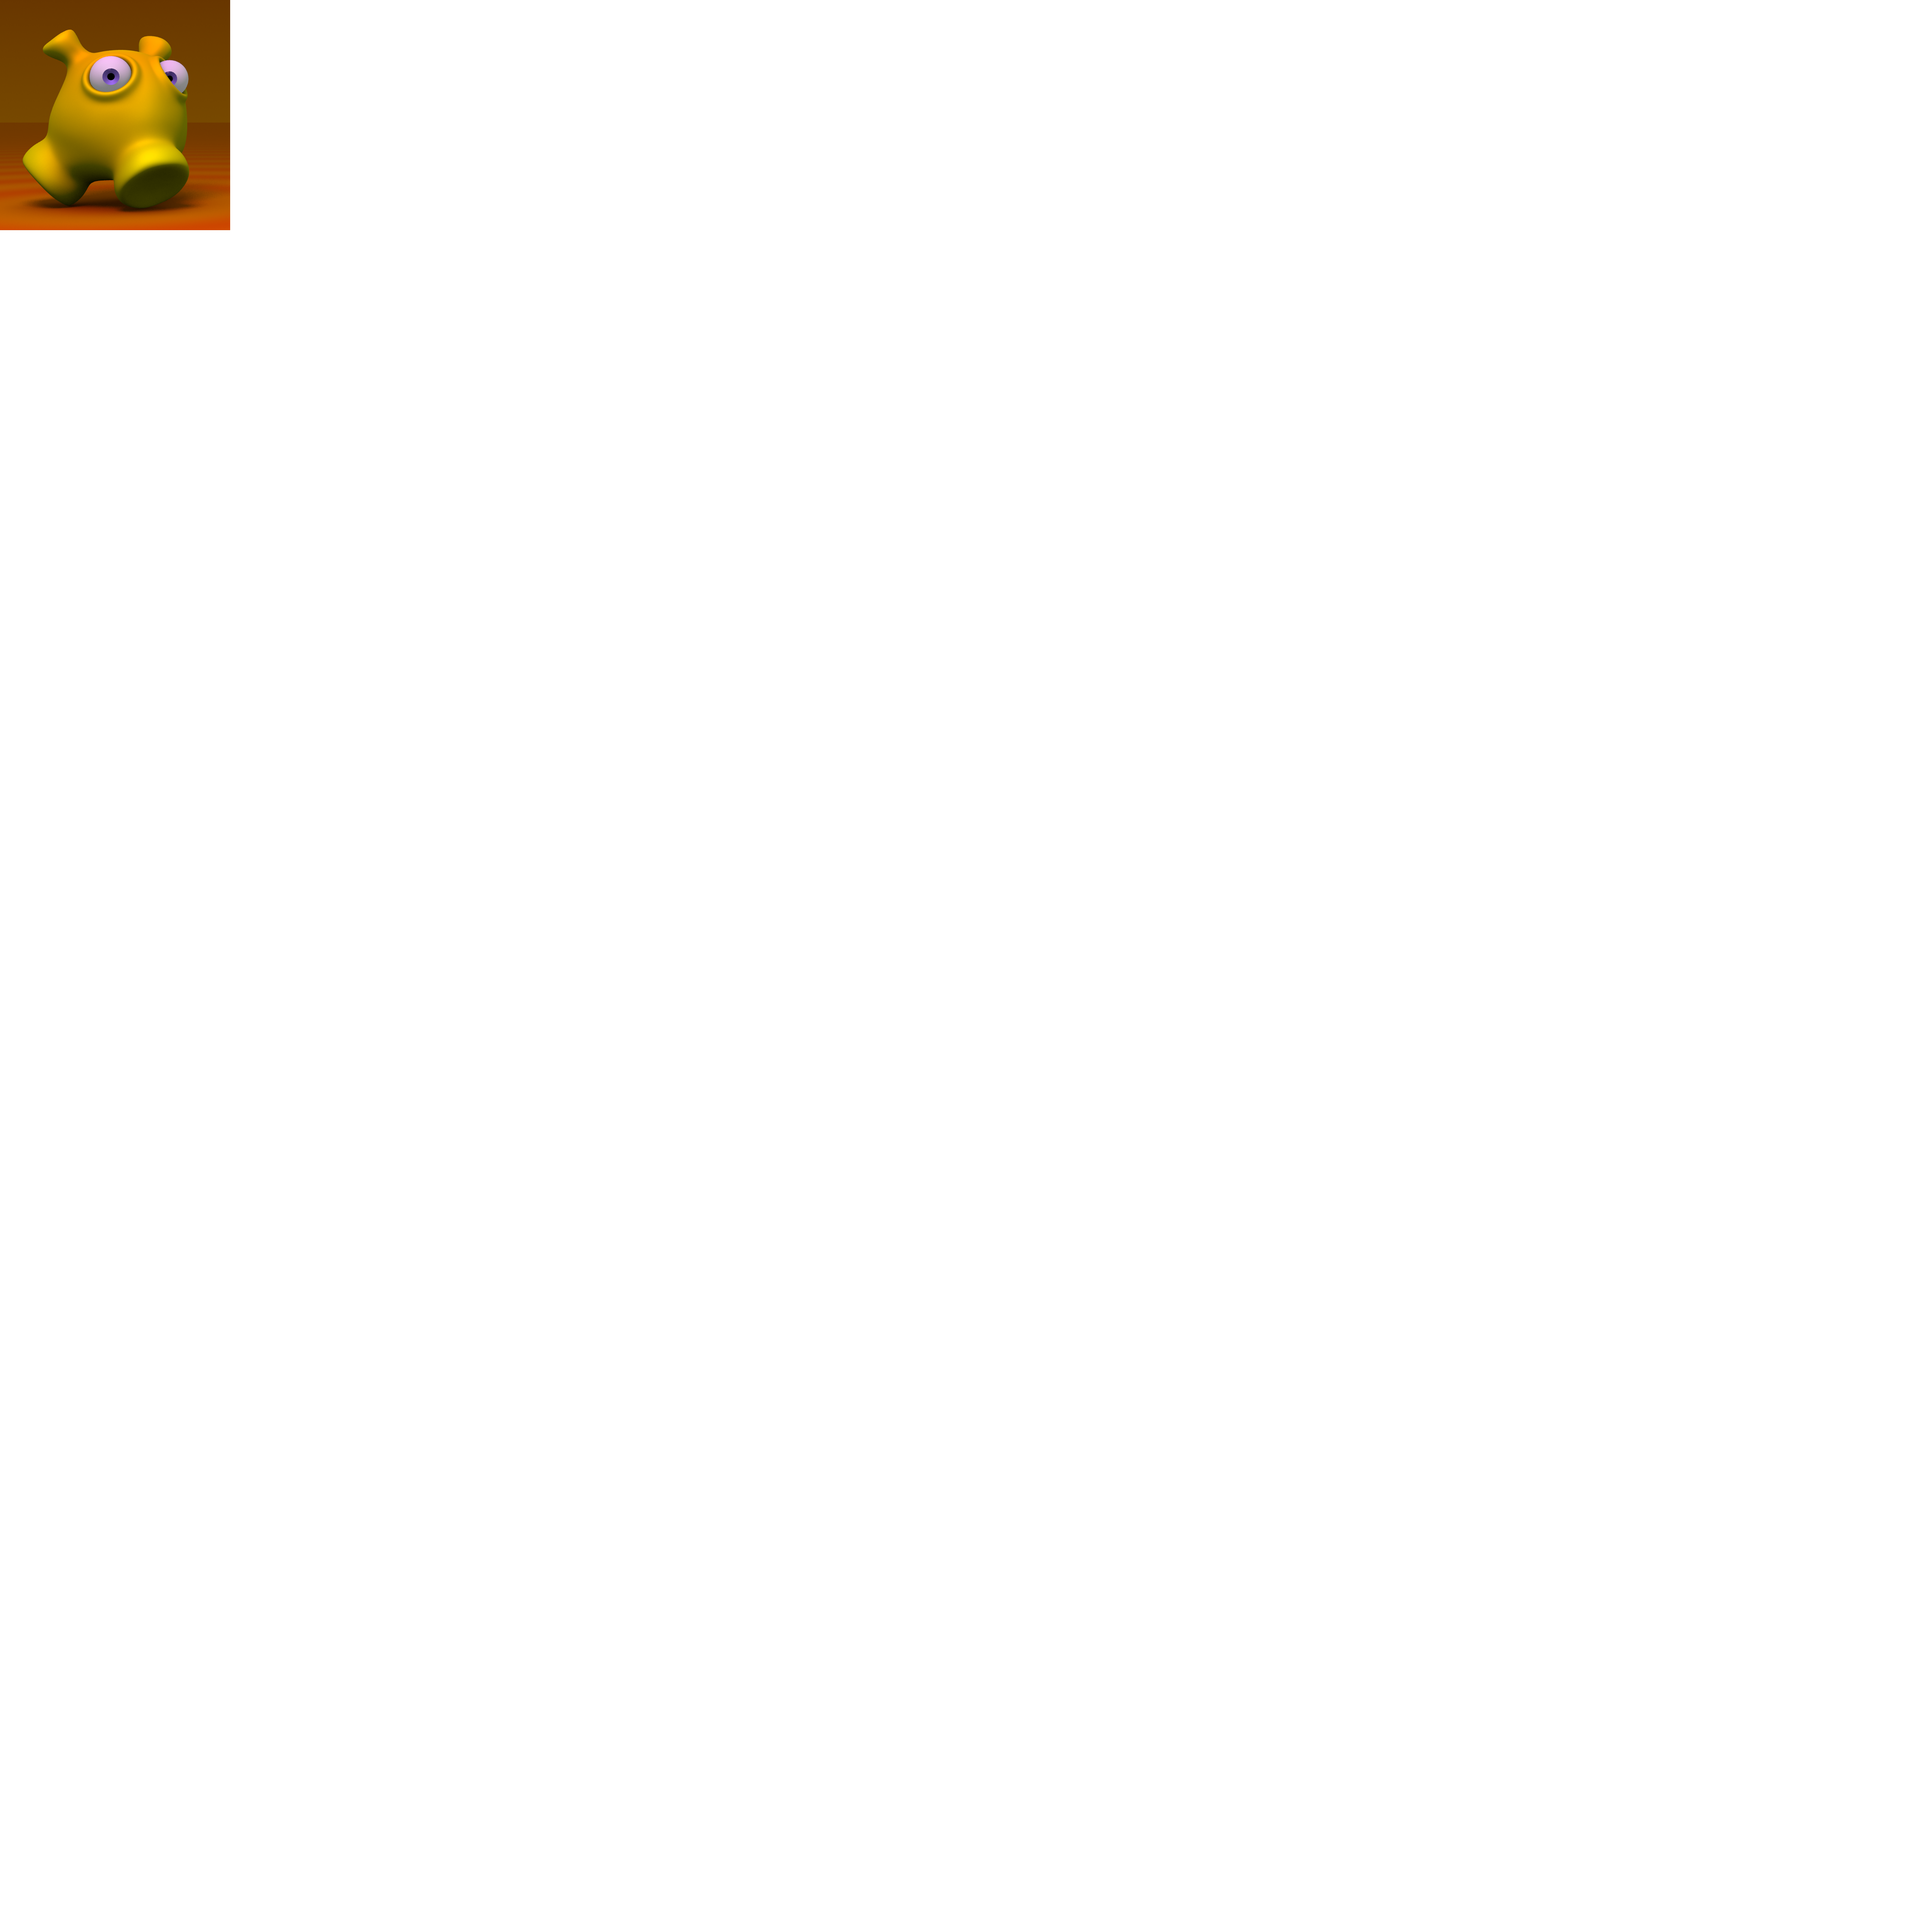
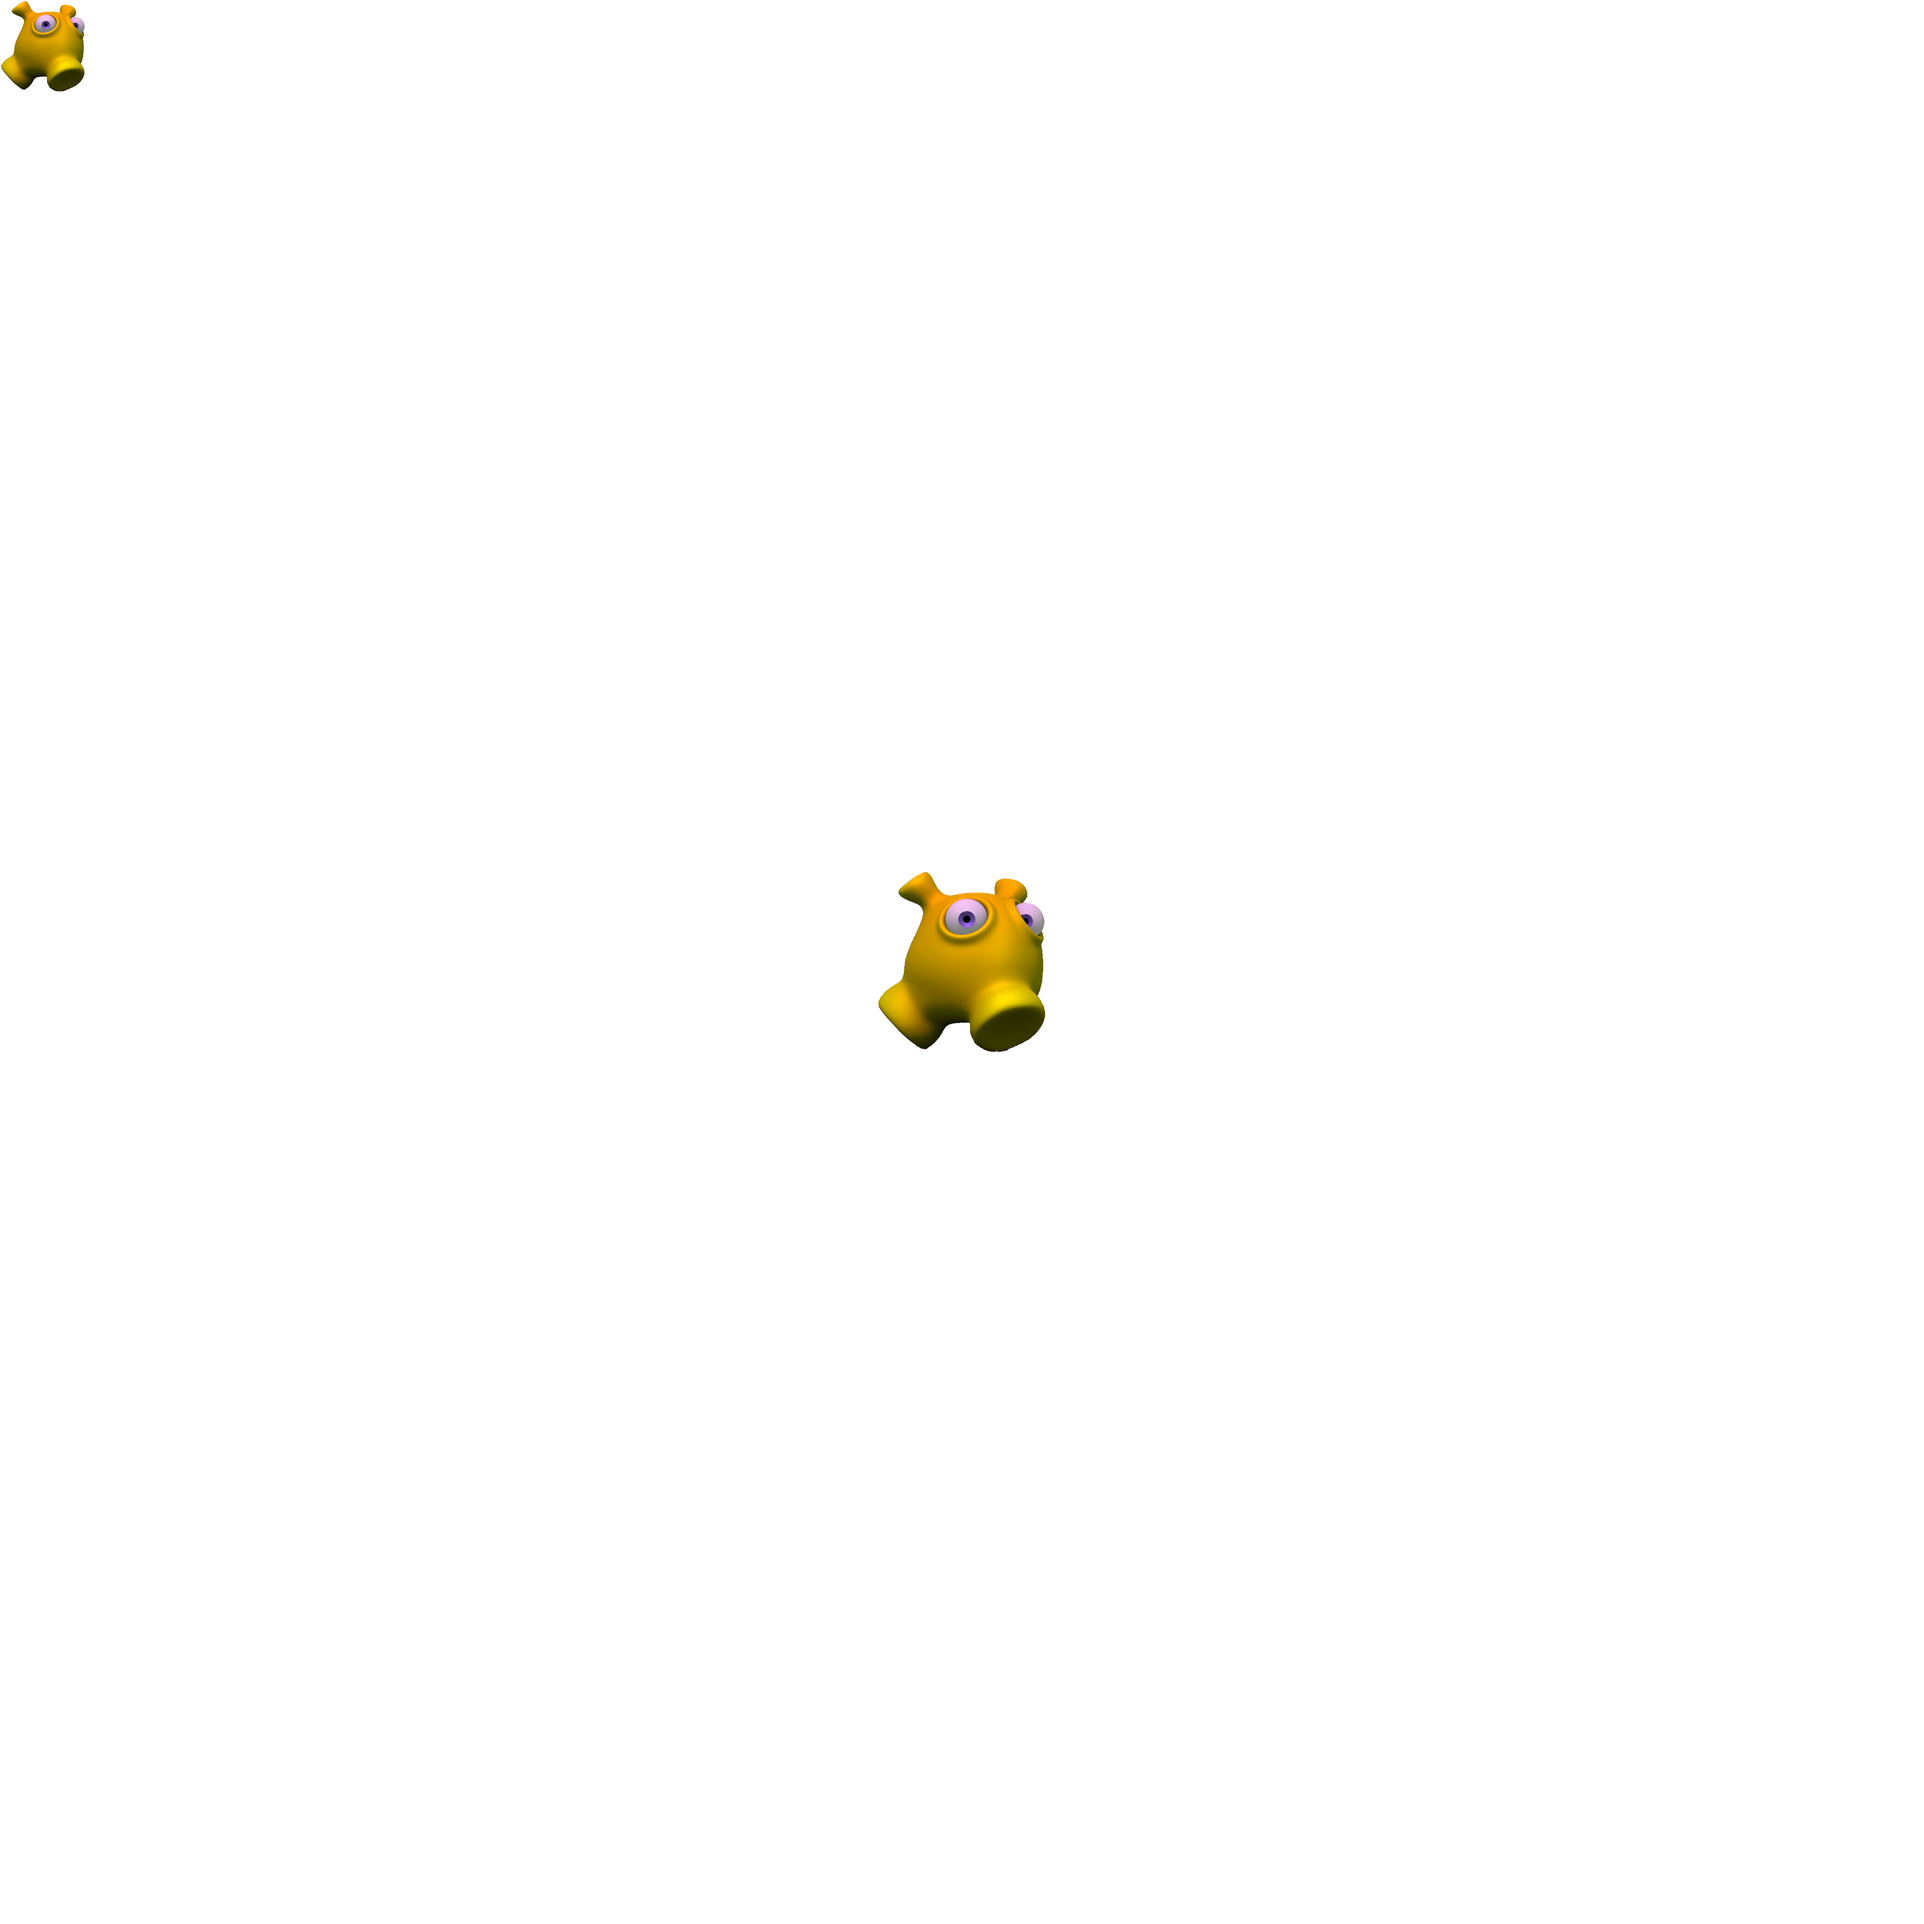
texture

Changed region(s): [[0.0, 0.0, 0.125, 0.125], [0.4375, 0.4375, 0.5625, 0.5625]]

diff --git a/kakao.app/js/little/world.js b/kakao.app/js/little/world.js
@@ -21,22 +21,24 @@ world = (function ()
         this["togglePause"] = this["togglePause"].bind(this)
         this["clearCanvas"] = this["clearCanvas"].bind(this)
         this["resize"] = this["resize"].bind(this)
+        this["loaded"] = this["loaded"].bind(this)
         this["start"] = this["start"].bind(this)
         this["draw"] = this["draw"].bind(this)
         this["setNum"] = this["setNum"].bind(this)
         this["setSide"] = this["setSide"].bind(this)
         this.main = $('main')
         this.pause = false
+        this.textureInfos = []
         this.canvas = elem('canvas',{class:'canvas'})
         this.main.appendChild(this.canvas)
         this.initWebGL()
         this.resize()
         this.tweaky = new tweaky(this.main)
-        this.setSide(100)
+        this.setSide(10)
         this.camPosX = 0
         this.camPosY = 0
-        this.camScale = 0.02
-        this.tweaky.init({side:{min:1,max:100,step:1,value:this.side,cb:this.setSide},camPosX:{min:-10,max:10,step:0.001,value:this.camPosX,cb:(function (camPosX)
+        this.camScale = 0.2
+        this.tweaky.init({side:{min:10,max:200,step:1,value:this.side,cb:this.setSide},camPosX:{min:-10,max:10,step:0.001,value:this.camPosX,cb:(function (camPosX)
         {
             this.camPosX = camPosX
         
@@ -46,7 +48,7 @@ world = (function ()
             this.camPosY = camPosY
         
             return this.draw()
-        }).bind(this)},camScale:{min:0.02,max:1,step:0.00001,value:this.camScale,cb:(function (camScale)
+        }).bind(this)},camScale:{min:0.02,max:0.2,step:0.00001,value:this.camScale,cb:(function (camScale)
         {
             this.camScale = camScale
         
@@ -61,26 +63,39 @@ world = (function ()
         var fragmentShader, fsSource, loadShader, r, vertexShader, vsSource
 
         this.gl = this.canvas.getContext('webgl2')
-        vsSource = `attribute vec2 aQuadVertex;
-attribute vec2 aQuadScale;
-attribute vec2 aQuadPosition;
-attribute vec4 aQuadColor;
+        vsSource = `#version 300 es
+precision mediump float;
+in vec2  aQuadVertex;
+in vec2  aQuadPosition;
+in vec2  aQuadScale;
+in vec4  aQuadColor;
+in vec4  aQuadUV;
+in float aQuadRot;
 uniform vec2 uCamPos;
 uniform vec2 uCamScale;
-varying vec4 vColor;
+out vec4 vColor;
+out vec2 vUV;
 
 void main(void) {
-    vec2 pos = uCamScale * (aQuadVertex * aQuadScale + aQuadPosition) - uCamPos;
+    vec2 vertex = aQuadVertex * aQuadScale;
+    //vec2 rotated = (aQuadRot == 0.0) ? vertex*cos(aQuadRot)-vec2(-vertex.y,vertex.x)*sin(aQuadRot) : vertex;
+    vec2 rotated = vertex*cos(aQuadRot)-vec2(-vertex.y,vertex.x)*sin(aQuadRot);
+    vec2 pos = uCamScale * (rotated + aQuadPosition) - uCamPos;
     gl_Position = vec4(pos.x, pos.y, 0, 1);
     vColor = aQuadColor;
+    vUV = mix(aQuadUV.xw,aQuadUV.zy,aQuadVertex+vec2(0.5, 0.5));
 }
 `
-        fsSource = `
+        fsSource = `#version 300 es
 precision mediump float;
-varying vec4 vColor;
+in vec4 vColor;
+in vec2 vUV;
+uniform sampler2D uSampler;
+out vec4 fragColor;
 
 void main(void) {
-    gl_FragColor = vColor;
+    //fragColor = vColor;
+    fragColor = texture(uSampler,vUV)*vColor;
 }`
         loadShader = (function (type, source)
         {
@@ -118,11 +133,12 @@ void main(void) {
         this.gl.bindBuffer(this.gl.ARRAY_BUFFER,this.quadBuffer)
         this.gl.vertexAttribPointer(this.quadVertexLoc,2,this.gl.FLOAT,false,0,0)
         this.gl.enableVertexAttribArray(this.quadVertexLoc)
-        this.poscalBuffer = this.gl.createBuffer()
-        this.colorBuffer = this.gl.createBuffer()
+        this.dataBuffer = this.gl.createBuffer()
         this.positionLoc = this.gl.getAttribLocation(this.shaderProgram,'aQuadPosition')
         this.scaleLoc = this.gl.getAttribLocation(this.shaderProgram,'aQuadScale')
-        return this.colorLoc = this.gl.getAttribLocation(this.shaderProgram,'aQuadColor')
+        this.colorLoc = this.gl.getAttribLocation(this.shaderProgram,'aQuadColor')
+        this.uvLoc = this.gl.getAttribLocation(this.shaderProgram,'aQuadUV')
+        return this.rotLoc = this.gl.getAttribLocation(this.shaderProgram,'aQuadRot')
     }
 
     world.prototype["setSide"] = function (side)
@@ -136,13 +152,12 @@ void main(void) {
     {
         this.num = num
     
-        this.poscal = new Float32Array(this.num * 4)
-        return this.colors = new Float32Array(this.num * 4)
+        return this.data = new Float32Array(this.num * 13)
     }
 
     world.prototype["draw"] = function ()
     {
-        var a, aspect, b, c, camPos, camScale, g, i, p, px, py, r, sq, sq2, sx, sy
+        var a, aspect, attrib, b, camPos, camScale, cv, g, i, offset, p, px, py, r, sq, sq2, stride, sx, sy, u0, u1, v0, v1
 
         sq = Math.ceil(Math.sqrt(this.num))
         sq2 = sq / 2
@@ -152,35 +167,52 @@ void main(void) {
             py = Math.floor(i / sq)
             sx = 1
             sy = 1
-            p = i * 4
-            this.poscal[p++] = px
-            this.poscal[p++] = py
-            this.poscal[p++] = (1.2 + Math.sin(this.tickInfo.time / 1000)) * 0.5
-            this.poscal[p++] = (1.2 + Math.cos(this.tickInfo.time / 1000)) * 0.5
-            r = i / sq / sq + randRange(-0.05,0.05)
-            b = (i % sq) / sq + randRange(-0.05,0.05)
-            g = (r + b) / 2 + randRange(-0.05,0.05)
+            p = i * 13
+            this.data[p++] = px
+            this.data[p++] = py
+            this.data[p++] = sx
+            this.data[p++] = sy
+            cv = 0.05
+            r = 1
+            b = 1
+            g = 1
             a = 1
-            c = i * 4
-            this.colors[c++] = r
-            this.colors[c++] = g
-            this.colors[c++] = b
-            this.colors[c++] = a
+            this.data[p++] = r
+            this.data[p++] = g
+            this.data[p++] = b
+            this.data[p++] = a
+            u0 = 0
+            v0 = 0
+            u1 = 196 / 4096
+            v1 = 196 / 4096
+            this.data[p++] = u0
+            this.data[p++] = v0
+            this.data[p++] = u1
+            this.data[p++] = v1
+            this.data[p++] = (px - py) * this.tickInfo.time / 10000
         }
         this.gl.useProgram(this.shaderProgram)
-        this.gl.bindBuffer(this.gl.ARRAY_BUFFER,this.poscalBuffer)
-        this.gl.bufferData(this.gl.ARRAY_BUFFER,this.poscal,this.gl.STATIC_DRAW)
-        this.gl.vertexAttribPointer(this.positionLoc,2,this.gl.FLOAT,false,16,0)
-        this.gl.vertexAttribDivisor(this.positionLoc,1)
-        this.gl.vertexAttribPointer(this.scaleLoc,2,this.gl.FLOAT,false,16,8)
-        this.gl.vertexAttribDivisor(this.scaleLoc,1)
-        this.gl.enableVertexAttribArray(this.positionLoc)
-        this.gl.enableVertexAttribArray(this.scaleLoc)
-        this.gl.bindBuffer(this.gl.ARRAY_BUFFER,this.colorBuffer)
-        this.gl.bufferData(this.gl.ARRAY_BUFFER,this.colors,this.gl.STATIC_DRAW)
-        this.gl.vertexAttribPointer(this.colorLoc,4,this.gl.FLOAT,false,0,0)
-        this.gl.vertexAttribDivisor(this.colorLoc,1)
-        this.gl.enableVertexAttribArray(this.colorLoc)
+        if ((this.textureInfos[0] != null ? this.textureInfos[0].glTexture : undefined))
+        {
+            this.gl.activeTexture(this.gl.TEXTURE0)
+            this.gl.bindTexture(this.gl.TEXTURE_2D,this.textureInfos[0].glTexture)
+        }
+        this.gl.bindBuffer(this.gl.ARRAY_BUFFER,this.dataBuffer)
+        this.gl.bufferData(this.gl.ARRAY_BUFFER,this.data,this.gl.STATIC_DRAW)
+        stride = 13 * 4
+        offset = 0
+        attrib = (function (loc, cnt)
+        {
+            this.gl.vertexAttribPointer(loc,cnt,this.gl.FLOAT,false,stride,offset)
+            this.gl.vertexAttribDivisor(loc,1)
+            this.gl.enableVertexAttribArray(loc)
+            return offset += 4 * cnt
+        }).bind(this)
+        attrib(this.positionLoc,2)
+        attrib(this.scaleLoc,2)
+        attrib(this.colorLoc,4)
+        attrib(this.uvLoc,4)
+        attrib(this.rotLoc,1)
         aspect = this.canvas.height / this.canvas.width
         sx = this.camScale * aspect
         sy = this.camScale
@@ -192,8 +224,49 @@ void main(void) {
         return this.gl.drawArraysInstanced(this.gl.TRIANGLE_FAN,0,4,this.num)
     }
 
+    world.prototype["createTexture"] = function (image)
+    {
+        var texture
+
+        if (!image)
+        {
+            return
+        }
+        texture = this.gl.createTexture()
+        this.gl.bindTexture(this.gl.TEXTURE_2D,texture)
+        this.gl.texImage2D(this.gl.TEXTURE_2D,0,this.gl.RGBA,this.gl.RGBA,this.gl.UNSIGNED_BYTE,image)
+        this.gl.texParameteri(this.gl.TEXTURE_2D,this.gl.TEXTURE_MIN_FILTER,this.gl.LINEAR)
+        this.gl.texParameteri(this.gl.TEXTURE_2D,this.gl.TEXTURE_MAG_FILTER,this.gl.LINEAR)
+        return texture
+    }
+
     world.prototype["start"] = function ()
-    {}
+    {
+        var imageSources, promises
+
+        imageSources = ['./tiles.png']
+        promises = imageSources.map((function (src, textureIndex)
+        {
+            return new Promise((function (resolve)
+            {
+                var image
+
+                image = new Image
+                image.onerror = image.onload = (function ()
+                {
+                    this.textureInfos[textureIndex] = {image:image,size:[image.width,image.height],width:image.width,height:image.height,glTexture:this.createTexture(image)}
+                    return resolve()
+                }).bind(this)
+                return image.src = src
+            }).bind(this))
+        }).bind(this))
+        return Promise.all(promises).then(this.loaded)
+    }
+
+    world.prototype["loaded"] = function ()
+    {
+        console.log('loaded',this.textureInfos)
+    }
 
     world.prototype["resize"] = function ()
     {

diff --git a/kakao.app/js/little/little.js b/kakao.app/js/little/little.js
@@ -50,7 +50,6 @@ Delegate = (function ()
 
         window.world = this.world = new world
         main = $('main')
-        this.fps = new fps(main,{topDown:true})
         this.quiq = elem({class:'quiq',children:[elem({text:' ',class:'quiq-item quiq-resart',click:this.world.start,dblclick:function (e)
         {
             return stopEvent(e)

diff --git a/kakao.app/js/konrad/version.js b/kakao.app/js/konrad/version.js
@@ -1,1 +1,1 @@
-export default 2575;
+export default 2721;
